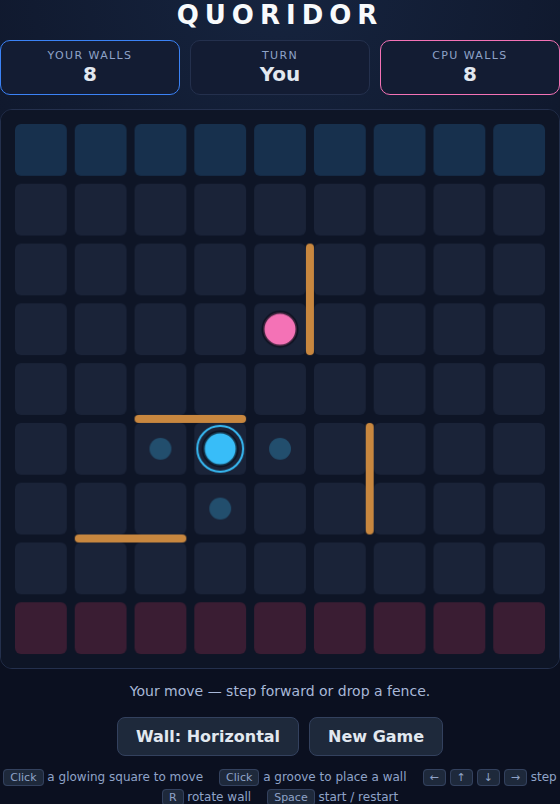
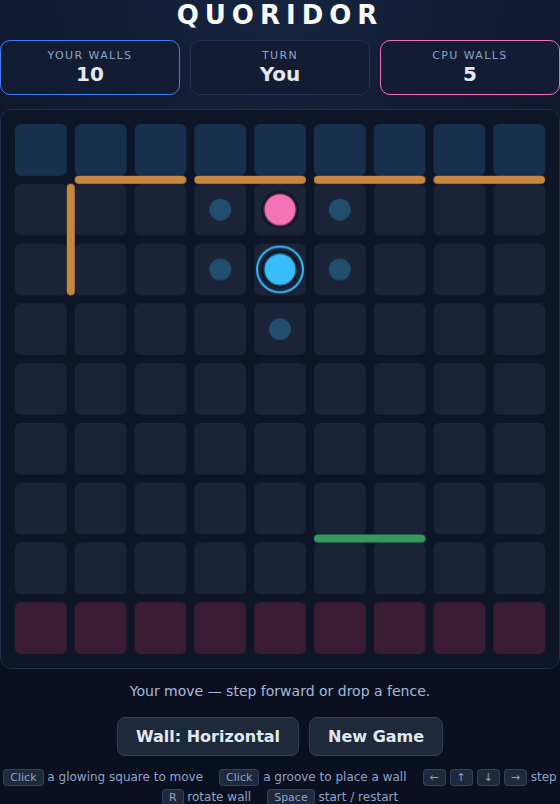
Give the Quoridor AI a tempo rule and polish the board
The greedy evaluation alone never spent a fence: a step and a one-step
fence shift the race margin by exactly the same amount, so on an open
board no fence ever strictly beat walking and every game degenerated into
a procession. Since the human moves first, a level race is one the
computer loses by a tempo it can never recover by walking.

The computer now breaks ties toward the fence when stepping would leave
it behind on tempo, and only when the fence actually costs the human a
step. It spends its full stock over a game and wins against an opponent
that just races, while staying beatable with real lookahead.

Also highlights the legal square under the pointer, reports the
computer's turn in the status line, and marks the game Complete.

Claude-Session: https://claude.ai/code/session_01YYU4vu5PNbdNETgna6RRZa

diff --git a/Quoridor/game.js b/Quoridor/game.js
@@ -246,6 +246,7 @@ function endTurn() {
     updateHud();
     if (turn === 1 && state === 'playing' && autoAI) {
         clearTimeout(aiTimer);
+        setStatus('The computer is thinking…');
         aiTimer = setTimeout(() => { aiTimer = null; aiMove(); }, AI_DELAY);
     }
 }
@@ -285,8 +286,14 @@ function startGame() {
 //
 // One-ply greedy search. Every candidate action is scored by how the race looks
 // afterwards: `opponentDistance - ownDistance`. Pawn steps are preferred on a
-// tie, so a fence is only spent when it buys strictly more than walking does —
-// in practice, when it costs the human at least two extra steps.
+// tie, so a fence is normally only spent when it buys strictly more than walking
+// does — in practice, when it costs the human at least two extra steps.
+//
+// The one exception is turn order. The human moves first, so a dead-even race is
+// a race the computer loses: stepping and fencing both shift the margin by one,
+// which means walking alone can never claw back the tempo. When the computer is
+// behind in that sense it breaks ties toward the fence instead, spending its
+// stock to build the tangle that later yields the two-step gains it needs.
 // ---------------------------------------------------------------------------
 
 function evaluateForAI() {
@@ -311,6 +318,7 @@ function bestPawnMove() {
 
 function bestWall() {
     if (wallsLeft[1] <= 0) return null;
+    const base = shortestPath(0);
     let best = null;
     for (let r = 0; r < SLOT_SIZE; r++) {
         for (let c = 0; c < SLOT_SIZE; c++) {
@@ -318,12 +326,22 @@ function bestWall() {
                 if (!canPlaceWall(r, c, o)) continue;
                 walls.push({ r, c, o });
                 const score = evaluateForAI();
+                const gain = shortestPath(0) - base;
                 walls.pop();
-                if (!best || score > best.score) best = { wall: { r, c, o }, score };
+                if (!best || score > best.score) best = { wall: { r, c, o }, score, gain };
             }
         }
     }
     return best;
+}
+
+// True when simply walking leaves the human still ahead on the clock: after the
+// computer steps, the human is on move and needs no more steps than it does.
+function losingTheRace() {
+    const mine = shortestPath(1);
+    const theirs = shortestPath(0);
+    if (mine === null || theirs === null) return false;
+    return mine - 1 >= theirs;
 }
 
 function aiMove() {
@@ -332,8 +350,10 @@ function aiMove() {
 
     const move = bestPawnMove();
     const wall = bestWall();
+    const breakTieWithWall = wall && move
+        && wall.score === move.score && wall.gain >= 1 && losingTheRace();
 
-    if (wall && (!move || wall.score > move.score)) {
+    if (wall && (!move || wall.score > move.score || breakTieWithWall)) {
         setStatus('The computer drops a fence.');
         placeWall(wall.wall.r, wall.wall.c, wall.wall.o);
         return;
@@ -467,13 +487,14 @@ function draw() {
         }
     }
 
-    // Legal destinations for the human player.
+    // Legal destinations for the human player, brightened under the pointer.
     if (state === 'playing' && turn === 0) {
         for (const m of legalMoves(0)) {
+            const hot = hoverCell && hoverCell.r === m.r && hoverCell.c === m.c;
             const p = cellCenter(m.r, m.c);
-            ctx.fillStyle = 'rgba(56, 189, 248, 0.28)';
+            ctx.fillStyle = hot ? 'rgba(56, 189, 248, 0.55)' : 'rgba(56, 189, 248, 0.28)';
             ctx.beginPath();
-            ctx.arc(p.x, p.y, 11, 0, Math.PI * 2);
+            ctx.arc(p.x, p.y, hot ? 15 : 11, 0, Math.PI * 2);
             ctx.fill();
         }
     }

diff --git a/Quoridor/tests/quoridor.spec.js b/Quoridor/tests/quoridor.spec.js
@@ -467,11 +467,58 @@ test.describe('Quoridor', () => {
             expect(await page.evaluate(() => pawns[1].r !== 0 || walls.length === 1)).toBe(true);
         });
 
+        test('the AI spends fences when a straight race would lose it the tempo', async ({ page }) => {
+            // The human moves first, so a level race is one the computer loses by
+            // walking. Against an opponent that only ever advances it has to start
+            // trading fences for tempo.
+            const s = await page.evaluate(() => {
+                startGame();
+                for (let i = 0; i < 4 && state === 'playing'; i++) {
+                    const best = legalMoves(0)
+                        .map((m) => {
+                            const save = { ...pawns[0] };
+                            pawns[0] = m;
+                            const d = shortestPath(0);
+                            pawns[0] = save;
+                            return { m, d };
+                        })
+                        .sort((a, b) => a.d - b.d)[0];
+                    movePawn(best.m.r, best.m.c);
+                    if (state === 'playing') aiMove();
+                }
+                return { walls: walls.length, left: [...wallsLeft] };
+            });
+            expect(s.walls).toBeGreaterThan(0);
+            expect(s.left[1]).toBe(10 - s.walls);
+            expect(s.left[0]).toBe(10);
+        });
+
+        test('the AI runs instead of fencing once it is ahead', async ({ page }) => {
+            const s = await page.evaluate(() => {
+                startGame();
+                pawns[1] = { r: 6, c: 4 }; // computer is two steps from home
+                aiMove();
+                return { walls: walls.length, pawn: { ...pawns[1] } };
+            });
+            expect(s.walls).toBe(0);
+            expect(s.pawn.r).toBe(7);
+        });
+
+        test('the status line reports that the computer is thinking', async ({ page }) => {
+            const text = await page.evaluate(() => {
+                autoAI = true;
+                startGame();
+                movePawn(7, 4);
+                return document.getElementById('status').textContent;
+            });
+            expect(text).toMatch(/thinking/i);
+        });
+
         test('a full self-played game keeps both players connected to their goals', async ({ page }) => {
             const res = await page.evaluate(() => {
                 startGame();
                 let connected = true;
-                for (let i = 0; i < 40 && state === 'playing'; i++) {
+                for (let i = 0; i < 90 && state === 'playing'; i++) {
                     // The human side simply walks its own shortest path.
                     const best = legalMoves(0)
                         .map((m) => {

diff --git a/Quoridor/DESIGN.md b/Quoridor/DESIGN.md
@@ -75,11 +75,28 @@ score = shortestPath(human) - shortestPath(computer)
 ```
 
 It scores every legal pawn step and every legal fence placement, then takes the
-best. Ties go to *stepping*, so a fence is only spent when it strictly beats
-walking — which works out to "only when the fence costs the human at least two
-extra steps", since a step is always worth one point of progress. A move that
-lands on the goal row scores `Infinity` so the AI never passes up an immediate
-win.
+best. A move that lands on the goal row scores `Infinity`, so the AI never passes
+up an immediate win.
+
+Ties normally go to *stepping*: a fence is a finite resource and a step is not,
+so the fence is only spent when it strictly beats walking — which works out to
+"when it costs the human at least two extra steps", since a step is always worth
+one point of progress.
+
+**The tempo exception.** That rule alone produces an AI that never places a
+fence, and the reason is worth writing down. Both actions shift the margin by
+exactly one — a step cuts the computer's own distance, a one-step fence adds to
+the human's — so on an open board no fence ever *strictly* beats walking, and the
+game degenerates into a pure race. But the human moves first, so a level race is
+one the computer loses by a single tempo; walking alone can never claw that back.
+
+So when the computer is behind on tempo — when stepping would still leave the
+human on move needing no more steps than it does (`losingTheRace()`) — it breaks
+ties toward the fence instead, provided the fence actually costs the human
+something. Each such fence buys a tangle rather than an immediate gain, and it is
+in that tangle that the two-step opportunities its ordinary rule is waiting for
+start to appear. In practice the computer spends its whole stock over the course
+of a game and plays a genuine race rather than a procession.
 
 Because every candidate fence is filtered through `canPlaceWall` first, the AI
 inherits the "never seal anyone in" guarantee for free. With 128 candidate
@@ -118,7 +135,7 @@ The only timer in the game is the AI's "thinking" delay, so tests set the global
 `autoAI = false` and call `aiMove()` themselves when they want a deterministic
 turn order; one test leaves it on to prove the automatic turn works.
 
-The suite (`tests/quoridor.spec.js`, 55 tests) was written before the
+The suite (`tests/quoridor.spec.js`, 58 tests) was written before the
 implementation and covers: the idle/start states, all movement and jump cases,
 every fence-legality rule, pathfinding, win detection, the AI, and the
 click/keyboard mapping onto canvas coordinates.

diff --git a/README.md b/README.md
@@ -109,7 +109,7 @@ For each new game, put it in a new folder. Each game should have its own README.
 | TriPeaks Solitaire | [TriPeaks/](TriPeaks/) | Complete |
 | Kakuro | [Kakuro/](Kakuro/) | Complete |
 | Kaboom! | [Kaboom/](Kaboom/) | Complete |
-| Quoridor | [Quoridor/](Quoridor/) | In Progress |
+| Quoridor | [Quoridor/](Quoridor/) | Complete |
 
 ## Playing
 
